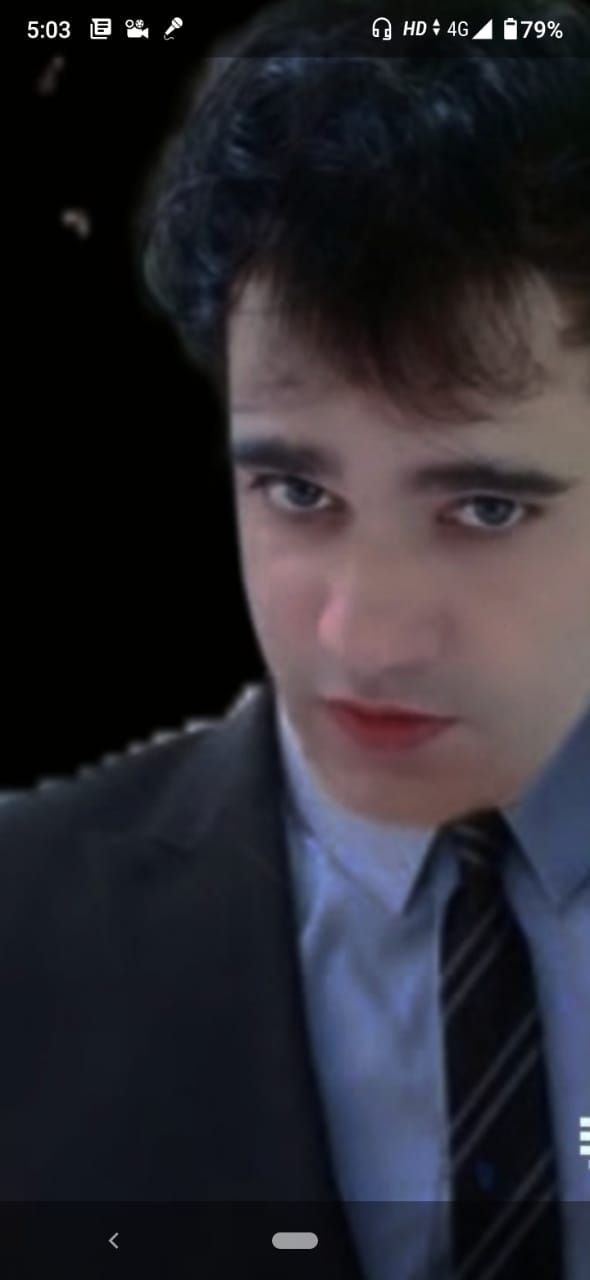
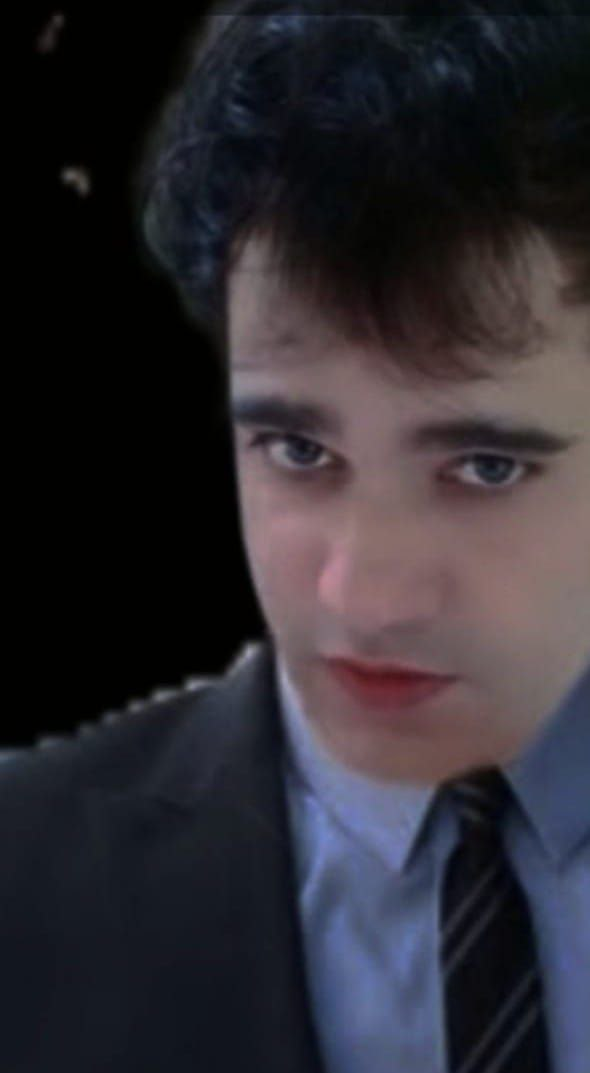
'v21'

diff --git a/app/layout.tsx b/app/layout.tsx
@@ -17,7 +17,7 @@ export const metadata = {
     template: '%s | Shoppers Ocean',
     default: 'Shoppers Ocean',
   },
-  description: "The fastest way1 to build apps with Next.js and Supabase",
+  description: "The fastest way to build apps with Next.js and Supabase",
 };
 
 export default function RootLayout({
